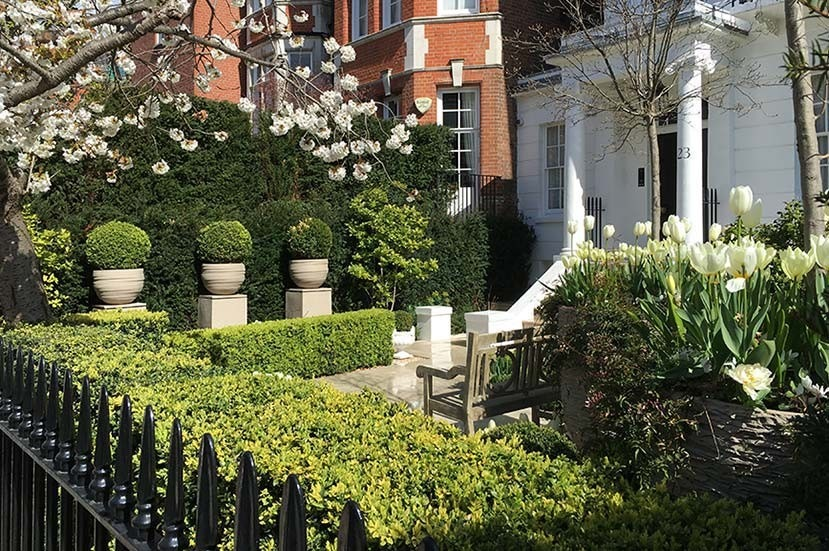
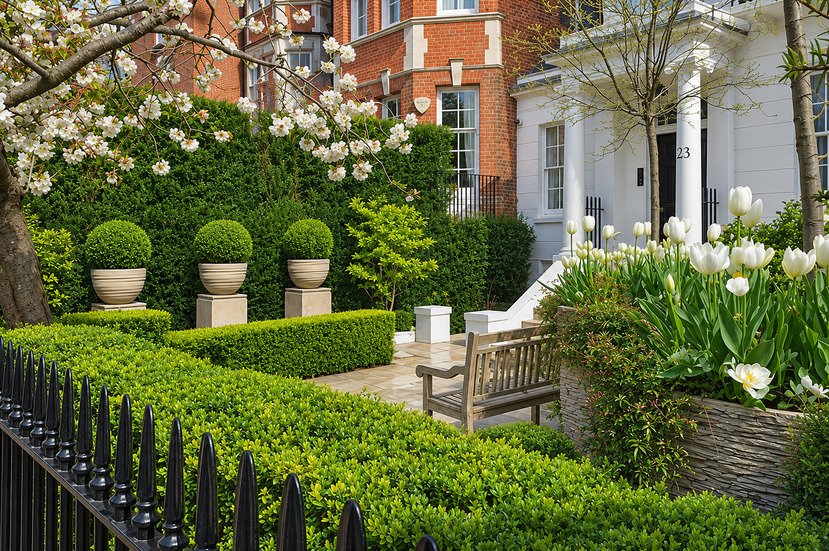
Upgrade Gallery reel and refine homepage styling

diff --git a/assets/css/site.css b/assets/css/site.css
@@ -1449,3 +1449,26 @@ html:has(.gfade) .whatsapp__phone{
 .gfade__slide:nth-child(4) .gfade__img{
  filter:saturate(1.22) contrast(1.06) brightness(1.025)!important;
 }
+
+
+/* Match WhatsApp to the Garden Design & Landscape wordmark green everywhere */
+html body .whatsapp,
+html:has(.gfade) .whatsapp{
+ background:#b8e08c!important;
+}
+html body .whatsapp__phone,
+html:has(.gfade) .whatsapp__phone{
+ fill:#b8e08c!important;
+}
+
+/* Cohesive high-end editorial grade across the complete Gallery reel */
+html:has(.gfade) .gfade__img{
+ filter:saturate(1.10) contrast(1.055) brightness(1.01)!important;
+}
+
+/* Raise the complete homepage message on mobile */
+@media (max-width:899px){
+ html:has(.stage__hl) .stage__in{
+  transform:translateY(-2.35rem);
+ }
+}
